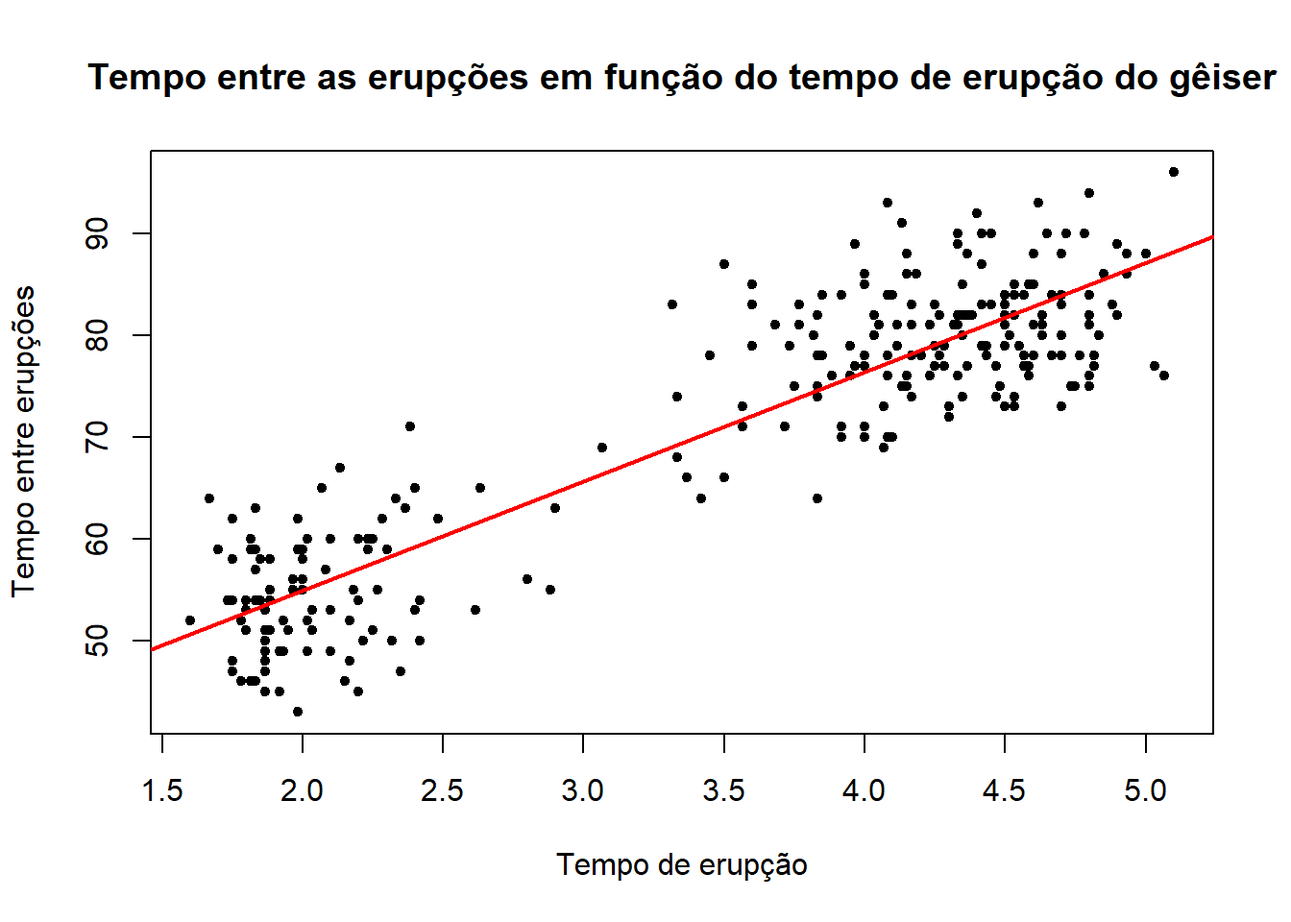
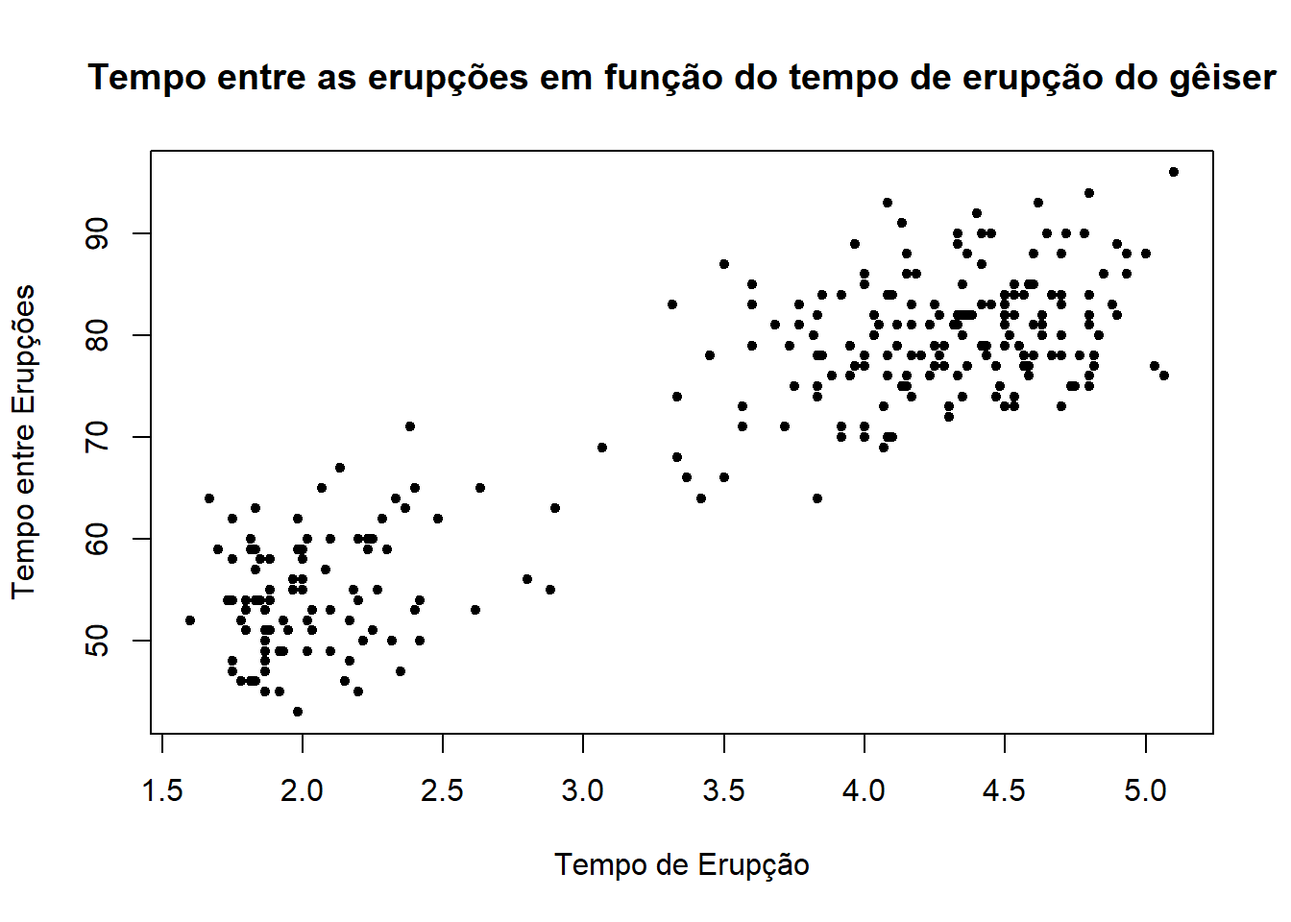
Adicionei callout boxes

diff --git a/_book/caret.html b/_book/caret.html
@@ -326,11 +326,12 @@ window.Quarto = {
 </header>
 
 
-<p>O pacote caret (abreviação de <em>Classification And Regression Training</em>) é um pacote muito útil para o <em>machine learning</em> pois envolve algoritmos que possibilitam que as previsões sejam feitas de forma mais prática, simplificando o processo de criação de modelos preditivos. Neste <a href="http://topepo.github.io/caret/index.html">guia detalhado</a> pode ser encontrado mais informações sobre o pacote.</p>
+<p>O pacote caret (abreviação de <em>Classification And Regression Training</em>) é um pacote muito útil para apricar os métodos de <em>aprendizado de máquinas</em> pois envolve algoritmos que possibilitam que as previsões sejam feitas de forma mais prática, simplificando o processo de criação de modelos preditivos. Neste <a href="http://topepo.github.io/caret/index.html">guia detalhado</a> pode ser encontrado mais informações sobre o pacote.</p>
 <section id="avaliando-classificadores" class="level2" data-number="6.1">
 <h2 data-number="6.1" class="anchored" data-anchor-id="avaliando-classificadores"><span class="header-section-number">6.1</span> <strong>Avaliando Classificadores</strong></h2>
 <p>Vamos utilizar a base de dados spam novamente para realizarmos o procedimento de predição para um e-mail (se ele é spam ou não spam), dessa vez utilizando o pacote caret.</p>
-<p>Para fazer a separação da amostra em treino e teste vamos primeiramente particionar a base de dados com a função createDataPartition().</p>
+<p>Para fazer a separação da amostra em treino e teste, vamos particionar a base de dados com a função createDataPartition(). Em problemas de classificação, a função createDataPartition() garante que a mesma proporção de cada classe observada no banco de dados seja mantida nas amostras de treino e teste. Ou seja, se o banco de dados tiver 70% de elementos do tipo A e 30% do tipo B, as amostras treino e teste terão cada uma 70% de elementos do tipo A e 30% do tipo B.</p>
+<p>Para problemas de regressão, createDataPartition() cria uma partição estratificada com base na variável dependente contínua, dividindo os dados de forma a representar bem a distribuição dos valores da variável de resposta em ambas as amostras de treino e teste.</p>
 <div class="cell">
 <div class="sourceCode cell-code" id="cb1"><pre class="sourceCode r code-with-copy"><code class="sourceCode r"><span id="cb1-1"><a href="#cb1-1" aria-hidden="true" tabindex="-1"></a><span class="fu">library</span>(caret)</span>
 <span id="cb1-2"><a href="#cb1-2" aria-hidden="true" tabindex="-1"></a><span class="fu">library</span>(kernlab)</span>
@@ -340,21 +341,21 @@ window.Quarto = {
 </div>
 <p>Essa função retorna os números das linhas a serem selecionadas para o treino. Os principais argumentos são:</p>
 <ul>
-<li><p><strong>y</strong> = classe dos dados que deverá ser mantida a mesma proporção nos conjuntos treino e teste. Para o nosso exemplo, escolhemos manter a mesma proporção do tipo do e-mail. Sendo assim, tanto no treino como no teste teremos a mesma proporção de e-mails spam e não spam.</p></li>
-<li><p><strong>p</strong> = porcentagem da amostra que será utilizada para o treino. Para o nosso exemplo, escolhemos 75%.</p></li>
+<li><p><strong>y</strong> = é a variável resposta; será mantida a mesma proporção de cada classe nos conjuntos treino e teste. Para o nosso exemplo, será a variável type. Sendo assim, tanto no treino como no teste teremos a mesma proporção de e-mails spam e não spam.</p></li>
+<li><p><strong>p</strong> = porcentagem da amostra que será utilizada para o treino. Para o nosso exemplo, escolhemos 75%, mas a decisão final é do pesquisador.</p></li>
 <li><p><strong>list</strong> = argumento do tipo <em>logical</em>, se TRUE → os resultados serão mostrados em uma lista, se FALSE → os resultados serão mostrados em uma matriz.</p></li>
 </ul>
 <blockquote class="blockquote">
 <p><strong>OBS:</strong> Esse comando deve ser utilizado apenas quando os dados são amostras independentes.</p>
 </blockquote>
-<p>Agora vamos separar o que irá para o treino e o que irá para o teste.</p>
+<p>Agora vamos separar as amostras que irão para o conjunto de treino e as que irão para o conjunto de teste.</p>
 <div class="cell">
 <div class="sourceCode cell-code" id="cb2"><pre class="sourceCode r code-with-copy"><code class="sourceCode r"><span id="cb2-1"><a href="#cb2-1" aria-hidden="true" tabindex="-1"></a><span class="co"># Separando as linhas para o treino:</span></span>
 <span id="cb2-2"><a href="#cb2-2" aria-hidden="true" tabindex="-1"></a>treino <span class="ot">=</span> spam[noTreino,]</span>
 <span id="cb2-3"><a href="#cb2-3" aria-hidden="true" tabindex="-1"></a><span class="co"># Separando as linhas para o teste:</span></span>
 <span id="cb2-4"><a href="#cb2-4" aria-hidden="true" tabindex="-1"></a>teste <span class="ot">=</span> spam[<span class="sc">-</span>noTreino,]</span></code><button title="Copy to Clipboard" class="code-copy-button"><i class="bi"></i></button></pre></div>
 </div>
-<p>Dado que já foi feito a separação das amostras treino e teste, o próximo passo é realizarmos o treinamento. Para isso é preciso escolher um dos modelos para ser utilizado. Uma lista com todos os modelos implementados no pacote caret pode ser vista com o seguinte comando:</p>
+<p>Após feita a separação das amostras treino e teste, podemos realizar o treinamento do modelo. Para isso é preciso escolher um dos modelos para ser utilizado. Uma lista com todos os modelos implementados no pacote caret pode ser vista com o seguinte comando:</p>
 <div class="cell">
 <div class="sourceCode cell-code" id="cb3"><pre class="sourceCode r code-with-copy"><code class="sourceCode r"><span id="cb3-1"><a href="#cb3-1" aria-hidden="true" tabindex="-1"></a><span class="fu">names</span>(<span class="fu">getModelInfo</span>())</span></code><button title="Copy to Clipboard" class="code-copy-button"><i class="bi"></i></button></pre></div>
 <div class="cell-output cell-output-stdout">
@@ -440,15 +441,31 @@ window.Quarto = {
 [238] "xgbTree"             "xyf"                </code></pre>
 </div>
 </div>
-<p>Para o nosso exemplo vamos utilizar o “glm” (<em>generalized linear model</em>).</p>
+<p>Para o nosso exemplo, vamos utilizar regressão logística, que possui no caret a alcunha “glm” (<em>generalized linear model</em>).</p>
 <p>Agora vamos criar o nosso modelo, utilizando apenas a amostra <strong>treino</strong>. Para isso vamos usar o comando train().</p>
 <div class="cell">
 <div class="sourceCode cell-code" id="cb5"><pre class="sourceCode r code-with-copy"><code class="sourceCode r"><span id="cb5-1"><a href="#cb5-1" aria-hidden="true" tabindex="-1"></a>modelo <span class="ot">=</span> <span class="fu">train</span>(type <span class="sc">~</span> ., <span class="at">data =</span> treino, <span class="at">method =</span> <span class="st">"glm"</span>)</span></code><button title="Copy to Clipboard" class="code-copy-button"><i class="bi"></i></button></pre></div>
 </div>
-<p>No primeiro argumento colocamos qual variável estamos tentando prever em função de qual(is). No nosso caso, queremos prever “type” em função (“~”) de todas as outras, por isso utilizamos o “.”. Em seguida dizemos de qual base de dados queremos construir o modelo e por último o método de treinamento utilizado.</p>
-<p>Agora vamos dar uma olhada no nosso modelo.</p>
+<p>No primeiro argumento colocamos qual variável estamos tentando prever em função de qual(is). No nosso caso, queremos prever “type” em função (“~”) de todas as outras, por isso utilizamos o ponto “.”. Em seguida dizemos de qual base de dados queremos construir o modelo e por último o método de treinamento utilizado.</p>
+<div class="callout callout-style-default callout-tip callout-titled">
+<div class="callout-header d-flex align-content-center">
+<div class="callout-icon-container">
+<i class="callout-icon"></i>
+</div>
+<div class="callout-title-container flex-fill">
+Tip
+</div>
+</div>
+<div class="callout-body-container callout-body">
+<p>Caso deseje utilizar apenas algumas das variáveis explicativas, basta detalhar quais variáveis devem ser consideradas no modelo, como o exemplo abaixo:</p>
 <div class="cell">
-<div class="sourceCode cell-code" id="cb6"><pre class="sourceCode r code-with-copy"><code class="sourceCode r"><span id="cb6-1"><a href="#cb6-1" aria-hidden="true" tabindex="-1"></a>modelo</span></code><button title="Copy to Clipboard" class="code-copy-button"><i class="bi"></i></button></pre></div>
+<div class="sourceCode cell-code" id="cb6"><pre class="sourceCode r code-with-copy"><code class="sourceCode r"><span id="cb6-1"><a href="#cb6-1" aria-hidden="true" tabindex="-1"></a>modelo2 <span class="ot">=</span> <span class="fu">train</span>(type <span class="sc">~</span> your<span class="sc">+</span>money<span class="sc">+</span>capitalAve, <span class="at">data =</span> treino, <span class="at">method =</span> <span class="st">"glm"</span>)</span></code><button title="Copy to Clipboard" class="code-copy-button"><i class="bi"></i></button></pre></div>
+</div>
+</div>
+</div>
+<p>Agora vamos dar uma olhada como ficou nosso modelo.</p>
+<div class="cell">
+<div class="sourceCode cell-code" id="cb7"><pre class="sourceCode r code-with-copy"><code class="sourceCode r"><span id="cb7-1"><a href="#cb7-1" aria-hidden="true" tabindex="-1"></a>modelo</span></code><button title="Copy to Clipboard" class="code-copy-button"><i class="bi"></i></button></pre></div>
 <div class="cell-output cell-output-stdout">
 <pre><code>Generalized Linear Model 
 
@@ -465,11 +482,11 @@ Resampling results:
   0.9224544  0.8365594</code></pre>
 </div>
 </div>
-<p>Podemos observar que utilizamos uma amostra de tamanho 3451 no treino e 57 preditores para prever a qual classe um e-mail pertence, spam ou não spam. O que a função faz é realizar várias maneiras diferentes de testar se esse modelo funcionará bem e usar isso para selecionar o melhor modelo. Neste caso ela usou a reamostragem por bootstrapping com 25 replicações (o default da função).</p>
+<p>Podemos observar que utilizamos uma amostra de tamanho 3451 no treino e 57 variáveis para prever a qual classe um e-mail pertence, spam ou não spam. O que a função faz é ajustar o modelo selecionado (glm no nosso caso) nos dados de treino, buscando otimizar uma métrica pré determinada (o padrão para classificação é acurácia). Quando o modelo necessita de ajuste de hiperparâmetros, a função utiliza métodos de reamostragem para selecionar o melhor modelo. O padrão é reamostragem por bootstrapping com 25 replicações. Trataremos deste tema posteriormente.</p>
 <p>Uma vez que ajustamos o modelo podemos aplicá-lo na amostra <strong>teste</strong>, para estimarmos a precisão do classificador. Para isso utilizamos o comando predict(). Dentro da função nós passamos o modelo que ajustamos no treino e em qual base de dados gostaríamos de realizar a predição.</p>
 <div class="cell">
-<div class="sourceCode cell-code" id="cb8"><pre class="sourceCode r code-with-copy"><code class="sourceCode r"><span id="cb8-1"><a href="#cb8-1" aria-hidden="true" tabindex="-1"></a>predicao <span class="ot">=</span> <span class="fu">predict</span>(modelo, <span class="at">newdata =</span> teste)</span>
-<span id="cb8-2"><a href="#cb8-2" aria-hidden="true" tabindex="-1"></a><span class="fu">head</span>(predicao, <span class="at">n=</span><span class="dv">30</span>)</span></code><button title="Copy to Clipboard" class="code-copy-button"><i class="bi"></i></button></pre></div>
+<div class="sourceCode cell-code" id="cb9"><pre class="sourceCode r code-with-copy"><code class="sourceCode r"><span id="cb9-1"><a href="#cb9-1" aria-hidden="true" tabindex="-1"></a>predicao <span class="ot">=</span> <span class="fu">predict</span>(modelo, <span class="at">newdata =</span> teste)</span>
+<span id="cb9-2"><a href="#cb9-2" aria-hidden="true" tabindex="-1"></a><span class="fu">head</span>(predicao, <span class="at">n=</span><span class="dv">30</span>)</span></code><button title="Copy to Clipboard" class="code-copy-button"><i class="bi"></i></button></pre></div>
 <div class="cell-output cell-output-stdout">
 <pre><code> [1] spam    spam    spam    spam    spam    spam    spam    nonspam nonspam
 [10] spam    spam    spam    nonspam nonspam spam    spam    spam    spam   
@@ -489,7 +506,7 @@ Levels: nonspam spam</code></pre>
 <p><img src="https://cienciadedadosuff.github.io/assets/r/courses/machine_learning/01/images/Matriz%20de%20Confusao%20Preenchida.png" class="img-fluid"></p>
 <p>Dentro da função passamos as predições que obtemos pelo modelo ajustado e as reais classificações dos e-mails do conjunto teste.</p>
 <div class="cell">
-<div class="sourceCode cell-code" id="cb10"><pre class="sourceCode r code-with-copy"><code class="sourceCode r"><span id="cb10-1"><a href="#cb10-1" aria-hidden="true" tabindex="-1"></a><span class="fu">confusionMatrix</span>(predicao, teste<span class="sc">$</span>type)</span></code><button title="Copy to Clipboard" class="code-copy-button"><i class="bi"></i></button></pre></div>
+<div class="sourceCode cell-code" id="cb11"><pre class="sourceCode r code-with-copy"><code class="sourceCode r"><span id="cb11-1"><a href="#cb11-1" aria-hidden="true" tabindex="-1"></a><span class="fu">confusionMatrix</span>(predicao, teste<span class="sc">$</span>type)</span></code><button title="Copy to Clipboard" class="code-copy-button"><i class="bi"></i></button></pre></div>
 <div class="cell-output cell-output-stdout">
 <pre><code>Confusion Matrix and Statistics
 
@@ -536,8 +553,8 @@ Prediction nonspam spam
 <h2 data-number="6.2" class="anchored" data-anchor-id="avaliando-regressores"><span class="header-section-number">6.2</span> <strong>Avaliando Regressores</strong></h2>
 <p>Agora vamos utilizar a base de dados <code>faithful</code> para tentar prever o tempo de espera (<em>waiting</em>) entre uma erupção e outra de um gêiser dado a duração das erupções (<em>eruption</em>).</p>
 <div class="cell">
-<div class="sourceCode cell-code" id="cb12"><pre class="sourceCode r code-with-copy"><code class="sourceCode r"><span id="cb12-1"><a href="#cb12-1" aria-hidden="true" tabindex="-1"></a><span class="fu">data</span>(<span class="st">"faithful"</span>)</span>
-<span id="cb12-2"><a href="#cb12-2" aria-hidden="true" tabindex="-1"></a><span class="fu">head</span>(faithful)</span></code><button title="Copy to Clipboard" class="code-copy-button"><i class="bi"></i></button></pre></div>
+<div class="sourceCode cell-code" id="cb13"><pre class="sourceCode r code-with-copy"><code class="sourceCode r"><span id="cb13-1"><a href="#cb13-1" aria-hidden="true" tabindex="-1"></a><span class="fu">data</span>(<span class="st">"faithful"</span>)</span>
+<span id="cb13-2"><a href="#cb13-2" aria-hidden="true" tabindex="-1"></a><span class="fu">head</span>(faithful)</span></code><button title="Copy to Clipboard" class="code-copy-button"><i class="bi"></i></button></pre></div>
 <div class="cell-output cell-output-stdout">
 <pre><code>  eruptions waiting
 1     3.600      79
@@ -550,9 +567,9 @@ Prediction nonspam spam
 </div>
 <p>Primeiro, vamos separar a amostra em treino e teste.</p>
 <div class="cell">
-<div class="sourceCode cell-code" id="cb14"><pre class="sourceCode r code-with-copy"><code class="sourceCode r"><span id="cb14-1"><a href="#cb14-1" aria-hidden="true" tabindex="-1"></a><span class="fu">set.seed</span>(<span class="dv">39</span>)</span>
-<span id="cb14-2"><a href="#cb14-2" aria-hidden="true" tabindex="-1"></a>noTreino <span class="ot">=</span> <span class="fu">createDataPartition</span>(<span class="at">y=</span>faithful<span class="sc">$</span>waiting, <span class="at">p=</span><span class="fl">0.7</span>, <span class="at">groups =</span> <span class="dv">5</span>, <span class="at">list=</span>F)</span>
-<span id="cb14-3"><a href="#cb14-3" aria-hidden="true" tabindex="-1"></a>treino <span class="ot">=</span> faithful[noTreino,]; teste <span class="ot">=</span> faithful[<span class="sc">-</span>noTreino,]</span></code><button title="Copy to Clipboard" class="code-copy-button"><i class="bi"></i></button></pre></div>
+<div class="sourceCode cell-code" id="cb15"><pre class="sourceCode r code-with-copy"><code class="sourceCode r"><span id="cb15-1"><a href="#cb15-1" aria-hidden="true" tabindex="-1"></a><span class="fu">set.seed</span>(<span class="dv">39</span>)</span>
+<span id="cb15-2"><a href="#cb15-2" aria-hidden="true" tabindex="-1"></a>noTreino <span class="ot">=</span> <span class="fu">createDataPartition</span>(<span class="at">y=</span>faithful<span class="sc">$</span>waiting, <span class="at">p=</span><span class="fl">0.7</span>, <span class="at">groups =</span> <span class="dv">5</span>, <span class="at">list=</span>F)</span>
+<span id="cb15-3"><a href="#cb15-3" aria-hidden="true" tabindex="-1"></a>treino <span class="ot">=</span> faithful[noTreino,]; teste <span class="ot">=</span> faithful[<span class="sc">-</span>noTreino,]</span></code><button title="Copy to Clipboard" class="code-copy-button"><i class="bi"></i></button></pre></div>
 </div>
 <p>Quando o argumento <code>y</code> é numérico, a amostra é dividida em grupos com base nos percentis e é feita uma amostragem estratificada. O número de percentis é definido pelo argumento <code>groups</code>.</p>
 <p>Agora temos que treinar nosso modelo. Para esse exemplo vamos usar a Regressão Linear (<em>LM - Linear Regression</em>).</p>
@@ -561,11 +578,11 @@ Prediction nonspam spam
 </blockquote>
 <p>Vamos treinar nosso modelo utilizando a amostra <strong>treino</strong>.</p>
 <div class="cell">
-<div class="sourceCode cell-code" id="cb15"><pre class="sourceCode r code-with-copy"><code class="sourceCode r"><span id="cb15-1"><a href="#cb15-1" aria-hidden="true" tabindex="-1"></a>modelo <span class="ot">=</span> caret<span class="sc">::</span><span class="fu">train</span>(waiting<span class="sc">~</span>eruptions, <span class="at">data =</span> treino, <span class="at">method =</span> <span class="st">"lm"</span>)</span></code><button title="Copy to Clipboard" class="code-copy-button"><i class="bi"></i></button></pre></div>
+<div class="sourceCode cell-code" id="cb16"><pre class="sourceCode r code-with-copy"><code class="sourceCode r"><span id="cb16-1"><a href="#cb16-1" aria-hidden="true" tabindex="-1"></a>modelo <span class="ot">=</span> caret<span class="sc">::</span><span class="fu">train</span>(waiting<span class="sc">~</span>eruptions, <span class="at">data =</span> treino, <span class="at">method =</span> <span class="st">"lm"</span>)</span></code><button title="Copy to Clipboard" class="code-copy-button"><i class="bi"></i></button></pre></div>
 </div>
 <p>Novamente, colocamos a variável que tentamos prever em função das outras. No caso, só temos duas variáveis então não precisamos colocar o ponto como no [classificador].</p>
 <div class="cell">
-<div class="sourceCode cell-code" id="cb16"><pre class="sourceCode r code-with-copy"><code class="sourceCode r"><span id="cb16-1"><a href="#cb16-1" aria-hidden="true" tabindex="-1"></a>modelo</span></code><button title="Copy to Clipboard" class="code-copy-button"><i class="bi"></i></button></pre></div>
+<div class="sourceCode cell-code" id="cb17"><pre class="sourceCode r code-with-copy"><code class="sourceCode r"><span id="cb17-1"><a href="#cb17-1" aria-hidden="true" tabindex="-1"></a>modelo</span></code><button title="Copy to Clipboard" class="code-copy-button"><i class="bi"></i></button></pre></div>
 <div class="cell-output cell-output-stdout">
 <pre><code>Linear Regression 
 
@@ -586,7 +603,7 @@ Tuning parameter 'intercept' was held constant at a value of TRUE</code></pre>
 <p>Podemos ver que temos 192 observações no conjunto treino e 1 preditor.</p>
 <p>Agora vamos aplicar nosso modelo na amostra teste para avaliar o erro dele.</p>
 <div class="cell">
-<div class="sourceCode cell-code" id="cb18"><pre class="sourceCode r code-with-copy"><code class="sourceCode r"><span id="cb18-1"><a href="#cb18-1" aria-hidden="true" tabindex="-1"></a>predicao <span class="ot">=</span> <span class="fu">predict</span>(modelo, <span class="at">newdata =</span> teste)</span></code><button title="Copy to Clipboard" class="code-copy-button"><i class="bi"></i></button></pre></div>
+<div class="sourceCode cell-code" id="cb19"><pre class="sourceCode r code-with-copy"><code class="sourceCode r"><span id="cb19-1"><a href="#cb19-1" aria-hidden="true" tabindex="-1"></a>predicao <span class="ot">=</span> <span class="fu">predict</span>(modelo, <span class="at">newdata =</span> teste)</span></code><button title="Copy to Clipboard" class="code-copy-button"><i class="bi"></i></button></pre></div>
 </div>
 <p>Assim como no classificador, a função <code>predict</code> nos retorna a previsão dos tempos entre as erupções dado os tempos das durações das erupções.</p>
 <section id="mse" class="level3" data-number="6.2.1">
@@ -599,8 +616,8 @@ MSE = \frac{1}{n}\sum_{i=1}^{n} \left( Yreal_i - Yestimado_i \right)^2
 <p><img src="https://cienciadedadosuff.github.io/assets/r/courses/machine_learning/01/images/MSE.jpg" class="img-fluid" alt="tela_0"></p>
 <p><strong>Ex.:</strong> O erro quadrático médio para o problema de tempo de erupção do gêiser.</p>
 <div class="cell">
-<div class="sourceCode cell-code" id="cb19"><pre class="sourceCode r code-with-copy"><code class="sourceCode r"><span id="cb19-1"><a href="#cb19-1" aria-hidden="true" tabindex="-1"></a><span class="fu">data</span>(<span class="st">"faithful"</span>)</span>
-<span id="cb19-2"><a href="#cb19-2" aria-hidden="true" tabindex="-1"></a><span class="fu">head</span>(faithful)</span></code><button title="Copy to Clipboard" class="code-copy-button"><i class="bi"></i></button></pre></div>
+<div class="sourceCode cell-code" id="cb20"><pre class="sourceCode r code-with-copy"><code class="sourceCode r"><span id="cb20-1"><a href="#cb20-1" aria-hidden="true" tabindex="-1"></a><span class="fu">data</span>(<span class="st">"faithful"</span>)</span>
+<span id="cb20-2"><a href="#cb20-2" aria-hidden="true" tabindex="-1"></a><span class="fu">head</span>(faithful)</span></code><button title="Copy to Clipboard" class="code-copy-button"><i class="bi"></i></button></pre></div>
 <div class="cell-output cell-output-stdout">
 <pre><code>  eruptions waiting
 1     3.600      79
@@ -612,23 +629,9 @@ MSE = \frac{1}{n}\sum_{i=1}^{n} \left( Yreal_i - Yestimado_i \right)^2
 </div>
 </div>
 <div class="cell">
-<div class="sourceCode cell-code" id="cb21"><pre class="sourceCode r code-with-copy"><code class="sourceCode r"><span id="cb21-1"><a href="#cb21-1" aria-hidden="true" tabindex="-1"></a><span class="co"># Gráfico do tempo entre as erupções em função do tempo de erupção do gêiseres</span></span>
-<span id="cb21-2"><a href="#cb21-2" aria-hidden="true" tabindex="-1"></a><span class="fu">plot</span>(faithful<span class="sc">$</span>eruptions, faithful<span class="sc">$</span>waiting, <span class="at">pch =</span> <span class="dv">20</span>, <span class="at">ylab=</span><span class="st">"Tempo entre Erupções"</span>,</span>
-<span id="cb21-3"><a href="#cb21-3" aria-hidden="true" tabindex="-1"></a>     <span class="at">xlab =</span> <span class="st">"Tempo de Erupção"</span>, <span class="at">main =</span> <span class="st">"Tempo entre as erupções em função do tempo de erupção do gêiser"</span>)</span></code><button title="Copy to Clipboard" class="code-copy-button"><i class="bi"></i></button></pre></div>
-<div class="cell-output-display">
-<div>
-<figure class="figure">
-<p><img src="caret_files/figure-html/unnamed-chunk-14-1.png" class="img-fluid figure-img" width="672"></p>
-</figure>
-</div>
-</div>
-</div>
-<p>Podemos notar que há uma relação linear positiva entre as variáveis. Vamos então ajustar um modelo de regressão linear.</p>
-<div class="cell">
-<div class="sourceCode cell-code" id="cb22"><pre class="sourceCode r code-with-copy"><code class="sourceCode r"><span id="cb22-1"><a href="#cb22-1" aria-hidden="true" tabindex="-1"></a>modelo <span class="ot">=</span> <span class="fu">lm</span>(faithful<span class="sc">$</span>waiting<span class="sc">~</span>faithful<span class="sc">$</span>eruptions)</span>
-<span id="cb22-2"><a href="#cb22-2" aria-hidden="true" tabindex="-1"></a><span class="fu">plot</span>(<span class="at">y =</span> faithful<span class="sc">$</span>waiting, <span class="at">x =</span> faithful<span class="sc">$</span>eruptions, <span class="at">pch =</span> <span class="dv">20</span>, <span class="at">ylab=</span><span class="st">"Tempo entre erupções"</span>,</span>
-<span id="cb22-3"><a href="#cb22-3" aria-hidden="true" tabindex="-1"></a>     <span class="at">xlab =</span> <span class="st">"Tempo de erupção"</span>, <span class="at">main =</span> <span class="st">"Tempo entre as erupções em função do tempo de erupção do gêiser"</span>)</span>
-<span id="cb22-4"><a href="#cb22-4" aria-hidden="true" tabindex="-1"></a><span class="fu">abline</span>(modelo, <span class="at">col =</span> <span class="st">"red"</span>, <span class="at">lwd =</span> <span class="dv">2</span>)</span></code><button title="Copy to Clipboard" class="code-copy-button"><i class="bi"></i></button></pre></div>
+<div class="sourceCode cell-code" id="cb22"><pre class="sourceCode r code-with-copy"><code class="sourceCode r"><span id="cb22-1"><a href="#cb22-1" aria-hidden="true" tabindex="-1"></a><span class="co"># Gráfico do tempo entre as erupções em função do tempo de erupção do gêiseres</span></span>
+<span id="cb22-2"><a href="#cb22-2" aria-hidden="true" tabindex="-1"></a><span class="fu">plot</span>(faithful<span class="sc">$</span>eruptions, faithful<span class="sc">$</span>waiting, <span class="at">pch =</span> <span class="dv">20</span>, <span class="at">ylab=</span><span class="st">"Tempo entre Erupções"</span>,</span>
+<span id="cb22-3"><a href="#cb22-3" aria-hidden="true" tabindex="-1"></a>     <span class="at">xlab =</span> <span class="st">"Tempo de Erupção"</span>, <span class="at">main =</span> <span class="st">"Tempo entre as erupções em função do tempo de erupção do gêiser"</span>)</span></code><button title="Copy to Clipboard" class="code-copy-button"><i class="bi"></i></button></pre></div>
 <div class="cell-output-display">
 <div>
 <figure class="figure">
@@ -637,10 +640,24 @@ MSE = \frac{1}{n}\sum_{i=1}^{n} \left( Yreal_i - Yestimado_i \right)^2
 </div>
 </div>
 </div>
+<p>Podemos notar que há uma relação linear positiva entre as variáveis. Vamos então ajustar um modelo de regressão linear.</p>
+<div class="cell">
+<div class="sourceCode cell-code" id="cb23"><pre class="sourceCode r code-with-copy"><code class="sourceCode r"><span id="cb23-1"><a href="#cb23-1" aria-hidden="true" tabindex="-1"></a>modelo <span class="ot">=</span> <span class="fu">lm</span>(faithful<span class="sc">$</span>waiting<span class="sc">~</span>faithful<span class="sc">$</span>eruptions)</span>
+<span id="cb23-2"><a href="#cb23-2" aria-hidden="true" tabindex="-1"></a><span class="fu">plot</span>(<span class="at">y =</span> faithful<span class="sc">$</span>waiting, <span class="at">x =</span> faithful<span class="sc">$</span>eruptions, <span class="at">pch =</span> <span class="dv">20</span>, <span class="at">ylab=</span><span class="st">"Tempo entre erupções"</span>,</span>
+<span id="cb23-3"><a href="#cb23-3" aria-hidden="true" tabindex="-1"></a>     <span class="at">xlab =</span> <span class="st">"Tempo de erupção"</span>, <span class="at">main =</span> <span class="st">"Tempo entre as erupções em função do tempo de erupção do gêiser"</span>)</span>
+<span id="cb23-4"><a href="#cb23-4" aria-hidden="true" tabindex="-1"></a><span class="fu">abline</span>(modelo, <span class="at">col =</span> <span class="st">"red"</span>, <span class="at">lwd =</span> <span class="dv">2</span>)</span></code><button title="Copy to Clipboard" class="code-copy-button"><i class="bi"></i></button></pre></div>
+<div class="cell-output-display">
+<div>
+<figure class="figure">
+<p><img src="caret_files/figure-html/unnamed-chunk-16-1.png" class="img-fluid figure-img" width="672"></p>
+</figure>
+</div>
+</div>
+</div>
 <p>Na reta de regressão temos todos os valores previstos para o tempo de erupção de acordo com os tempos de espera. Podemos então calcular o MSE para o nosso modelo utilizando o comando mse().</p>
 <div class="cell">
-<div class="sourceCode cell-code" id="cb23"><pre class="sourceCode r code-with-copy"><code class="sourceCode r"><span id="cb23-1"><a href="#cb23-1" aria-hidden="true" tabindex="-1"></a>mse <span class="ot">=</span> <span class="fu">sum</span>((teste<span class="sc">$</span>waiting<span class="sc">-</span>predicao)<span class="sc">**</span><span class="dv">2</span>)<span class="sc">/</span><span class="fu">nrow</span>(teste)</span>
-<span id="cb23-2"><a href="#cb23-2" aria-hidden="true" tabindex="-1"></a>mse</span></code><button title="Copy to Clipboard" class="code-copy-button"><i class="bi"></i></button></pre></div>
+<div class="sourceCode cell-code" id="cb24"><pre class="sourceCode r code-with-copy"><code class="sourceCode r"><span id="cb24-1"><a href="#cb24-1" aria-hidden="true" tabindex="-1"></a>mse <span class="ot">=</span> <span class="fu">sum</span>((teste<span class="sc">$</span>waiting<span class="sc">-</span>predicao)<span class="sc">**</span><span class="dv">2</span>)<span class="sc">/</span><span class="fu">nrow</span>(teste)</span>
+<span id="cb24-2"><a href="#cb24-2" aria-hidden="true" tabindex="-1"></a>mse</span></code><button title="Copy to Clipboard" class="code-copy-button"><i class="bi"></i></button></pre></div>
 <div class="cell-output cell-output-stdout">
 <pre><code>[1] 32.41941</code></pre>
 </div>
